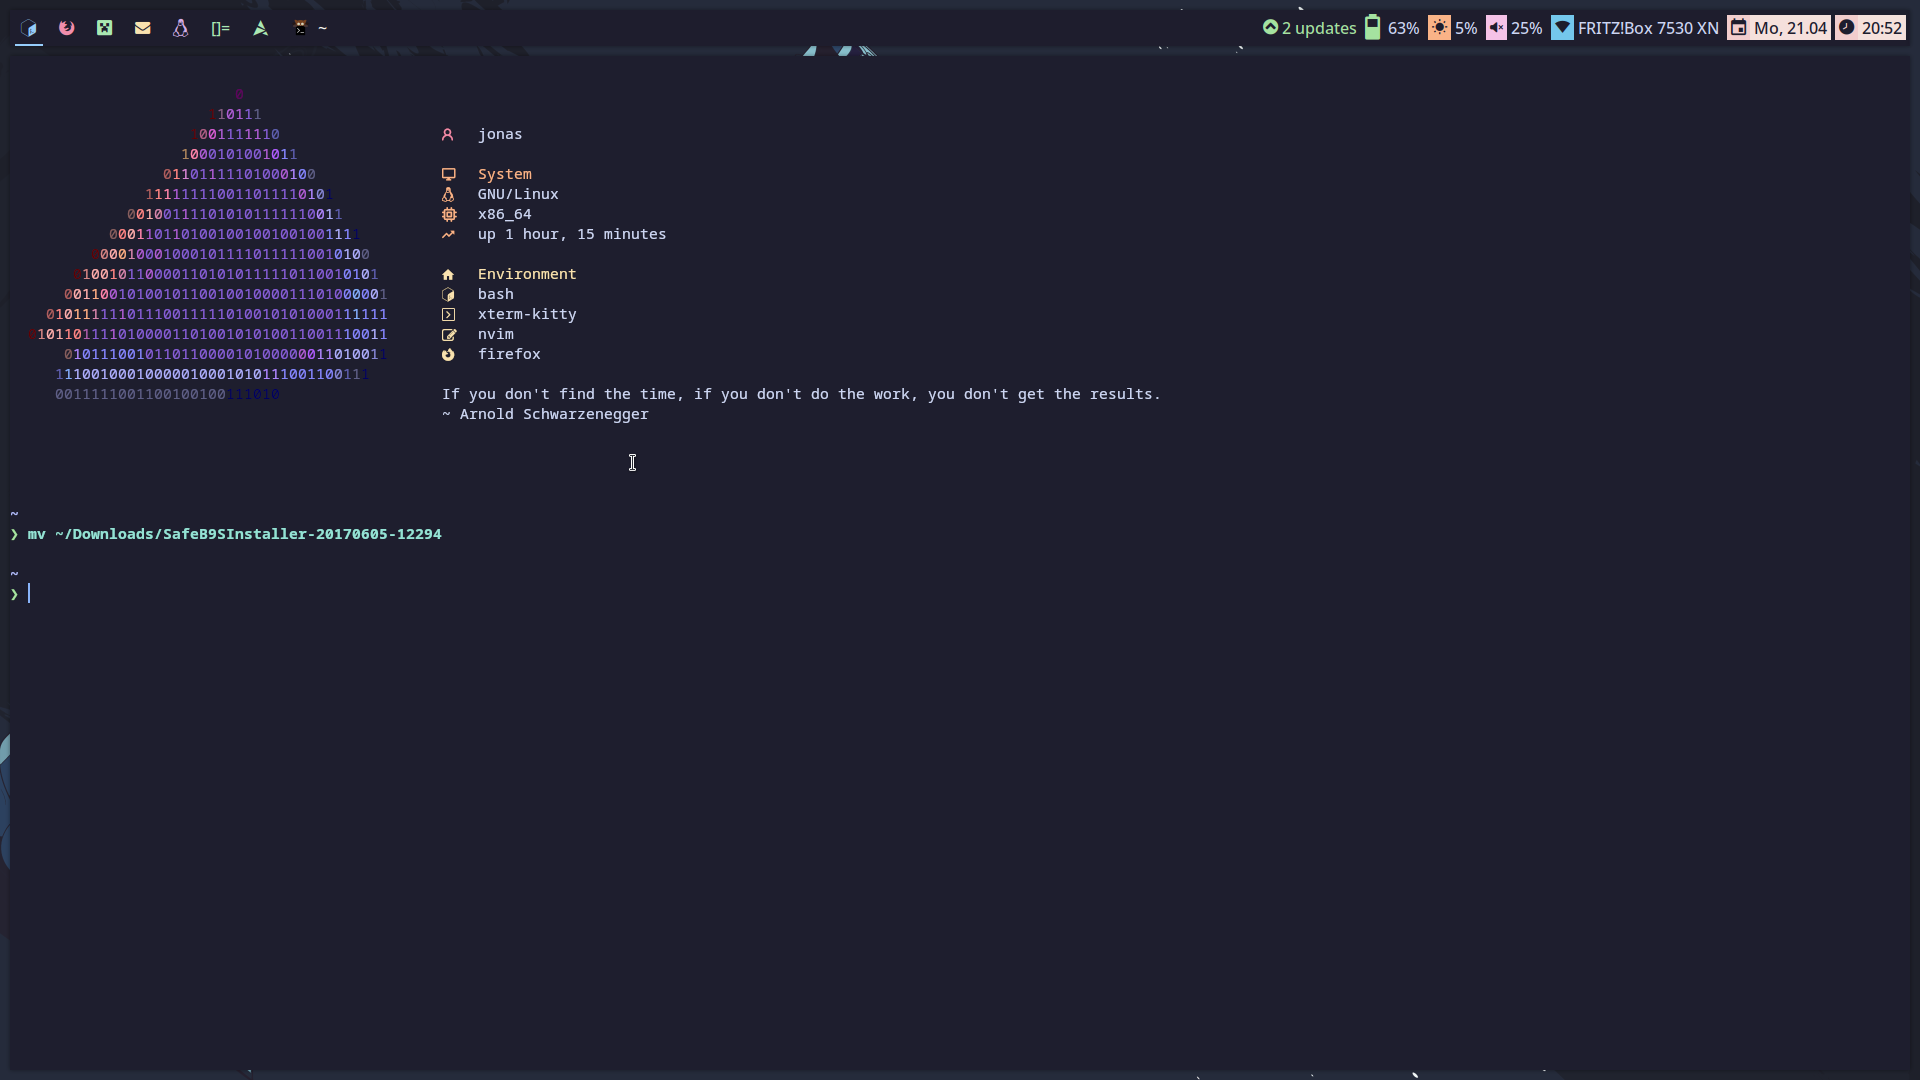
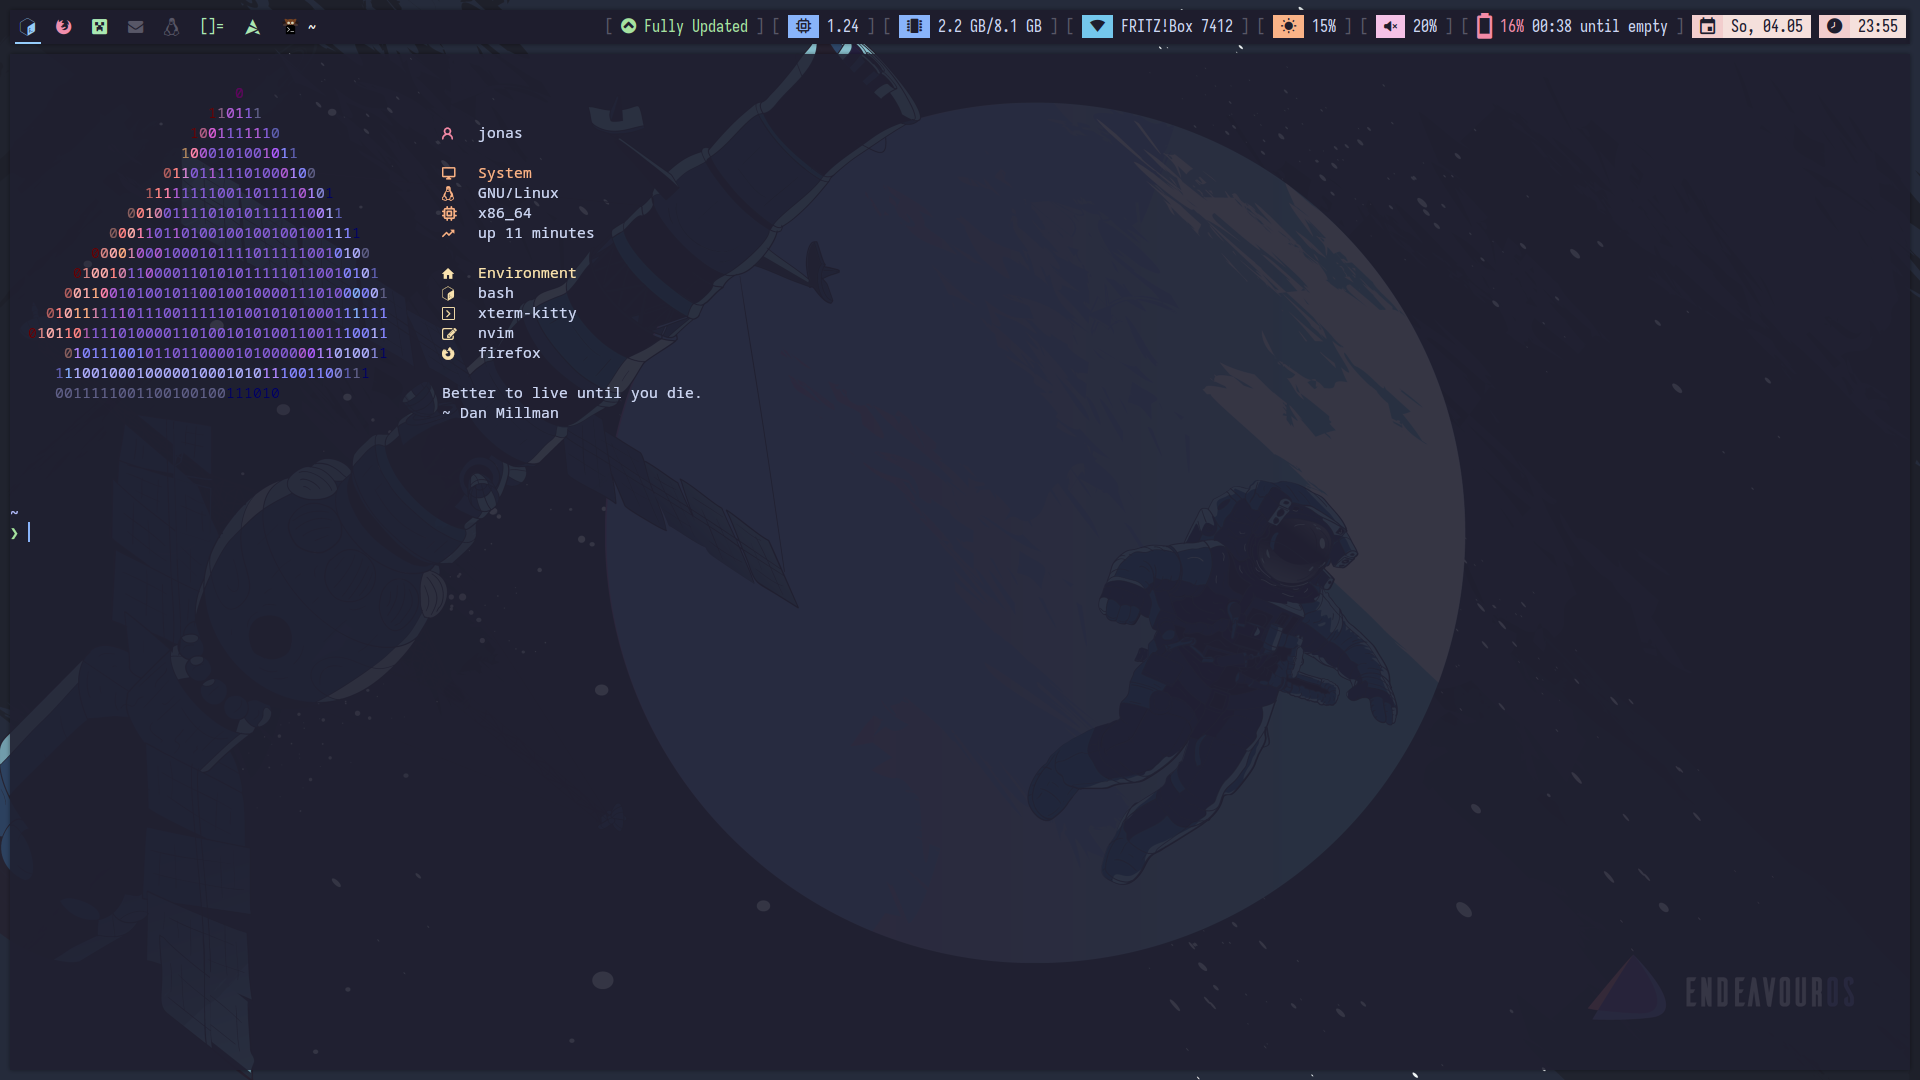
📝 Improve README

diff --git a/README.md b/README.md
@@ -26,6 +26,9 @@ yolk sync
 
 ## Preview
 
+> [!NOTE]
+> Some images are old and might not represent the latest configuration.
+
 ![Terminal preview](./preview/terminal.png)
 
 ![Desktop preview](./preview/dekstop.png)
